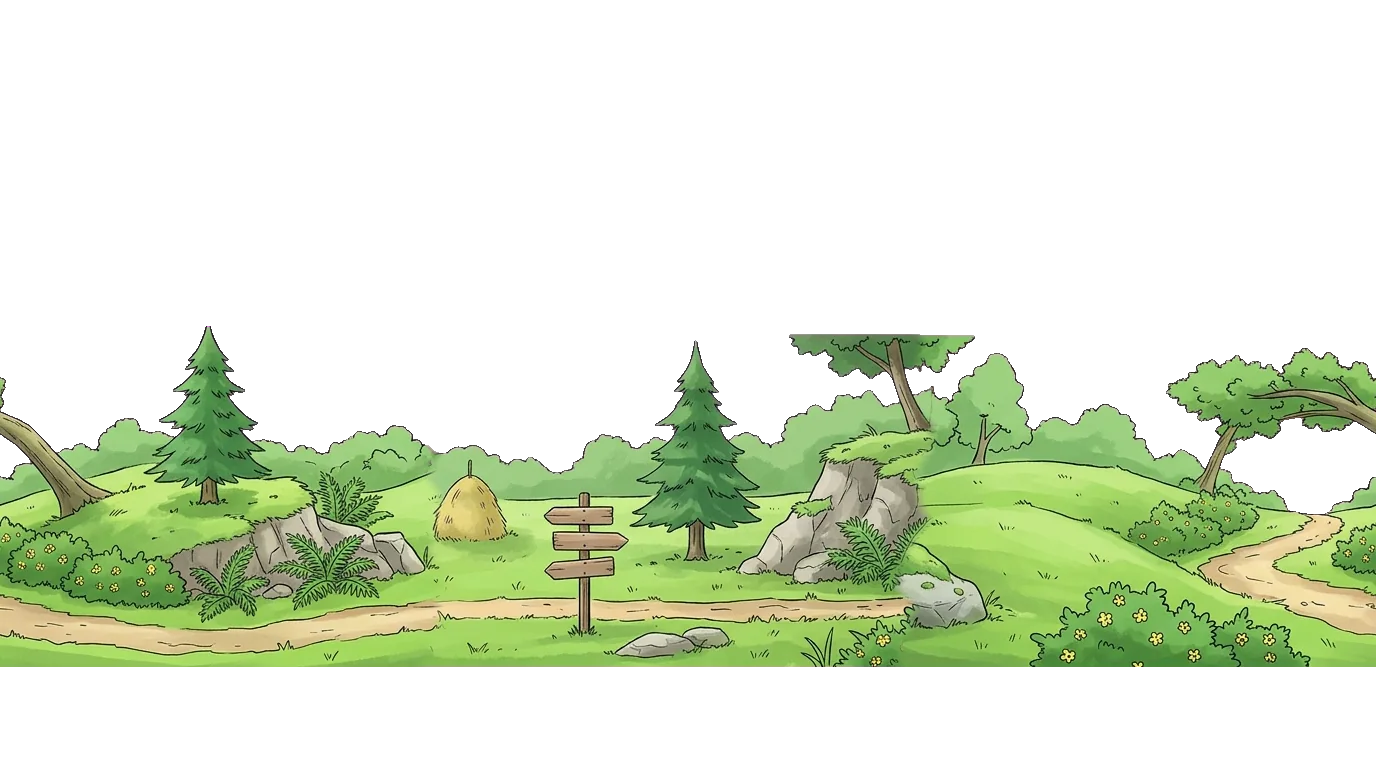
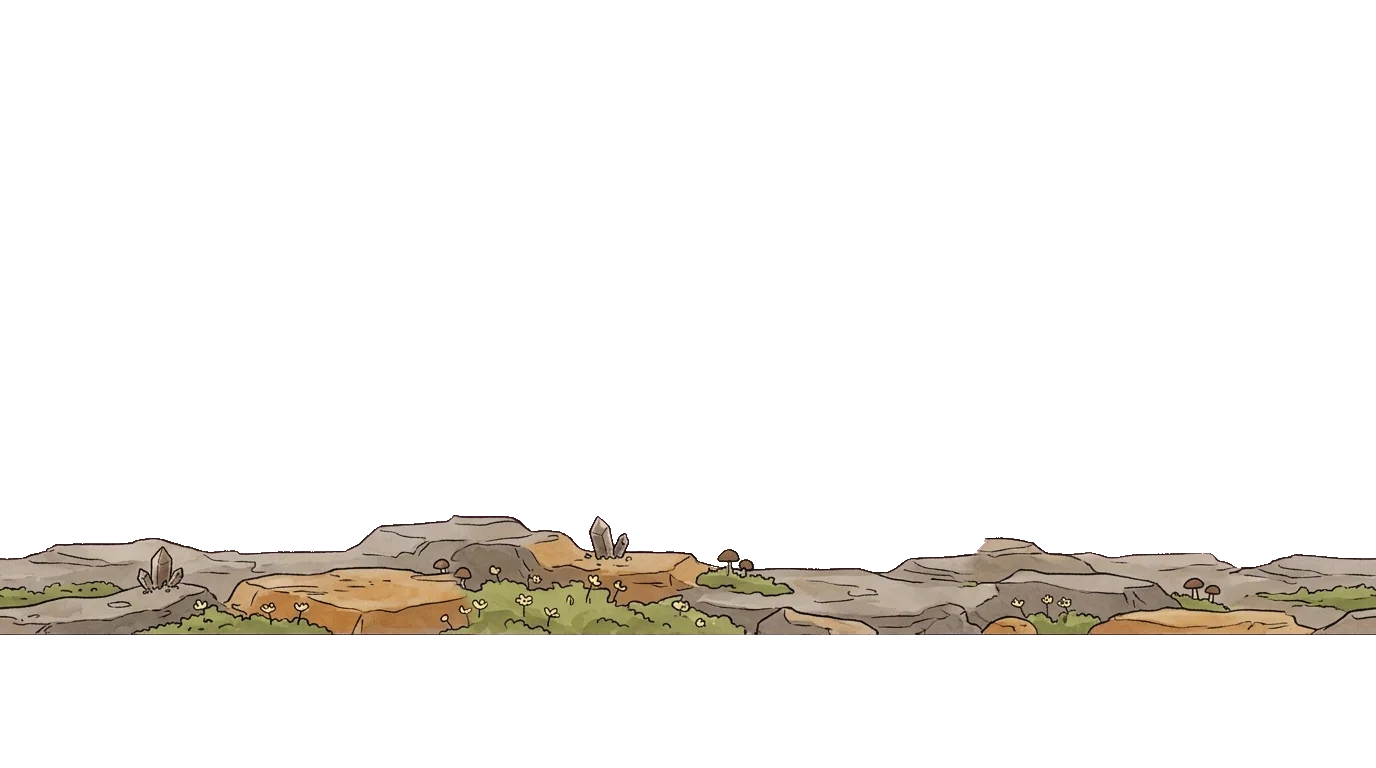
feat(egg): mountain pictures, a clearer gust, a growing hearth; plan 87 done
Claude-Session: https://claude.ai/code/session_01MAZwqXwM85U4SqAxn25APB

diff --git a/src/game/modes/egg.ts b/src/game/modes/egg.ts
@@ -1,5 +1,6 @@
 import { pickLine } from '../../app/app';
 import { ease } from '../../engine/tween';
+import { sprite } from '../../gfx/assets';
 import { blob, drawSprite, type G } from '../../gfx/draw';
 import type { TapkoMotion } from '../../gfx/tapko';
 import { t } from '../../i18n/i18n';
@@ -99,7 +100,7 @@ abstract class SlopeStream extends ApproachMode {
 }
 
 /** A gust's swirl radius, how much a slip makes it grow and speeds it up, and the speed of its rush after a second slip. */
-const GUST_R = 62;
+const GUST_R = 70;
 const STRONG = 1.3;
 const STRONG_SPEED = 1.35;
 const RUSH_SPEED = 1500;
@@ -210,35 +211,38 @@ export class WindMode extends SlopeStream {
     tg.selectable = false;
   }
 
+  /** A swirl of air: soft blue-grey strokes under white ones, so it reads on a bright sky too. */
   drawMover(g: G, m: Mover): void {
-    const r = GUST_R * m.grow, spin = m.age * (m.strong ? 5 : 3.5) + m.phase;
-    g.save();
-    g.lineCap = 'round';
-    g.strokeStyle = '#ffffff';
+    const r = GUST_R * m.grow, spin = m.age * (m.strong ? 5 : 3.5) + m.phase, w = m.strong ? 1.6 : 1;
+    const strokes: ((g: G) => void)[] = [];
     for (let i = 0; i < 4; i++) {
       const rr = r * (0.35 + 0.2 * i), a = spin * (1 - i * 0.12) + i * 1.7;
-      g.lineWidth = (m.strong ? 6 : 3.5) - i * 0.5;
-      g.save();
-      g.globalAlpha = 0.85 - i * 0.12;
-      g.beginPath();
-      g.arc(m.x, m.y, rr, a, a + 1.3 + i * 0.25);
-      g.stroke();
-      g.restore();
+      strokes.push((gg) => gg.arc(m.x, m.y, rr, a, a + 1.5 + i * 0.25));
     }
     // Wisps trail behind it.
-    g.lineWidth = m.strong ? 4 : 2.5;
-    g.globalAlpha = 0.6;
     for (const dy of [-0.35, 0.1, 0.45]) {
       const y = m.y + dy * r, wave = Math.sin(m.age * 6 + dy * 5) * 6;
-      g.beginPath();
-      g.moveTo(m.x + r * 0.7, y);
-      g.quadraticCurveTo(m.x + r * 1.3, y + wave, m.x + r * (1.8 + (m.strong ? 0.4 : 0)), y);
-      g.stroke();
+      strokes.push((gg) => {
+        gg.moveTo(m.x + r * 0.7, y);
+        gg.quadraticCurveTo(m.x + r * 1.3, y + wave, m.x + r * (1.8 + (m.strong ? 0.4 : 0)), y);
+      });
+    }
+    g.save();
+    g.lineCap = 'round';
+    for (const [ink, width, alpha] of [['#5f7f9c', 8, 0.35], ['#ffffff', 4.5, 0.95]] as const) {
+      g.strokeStyle = ink;
+      g.lineWidth = width * w;
+      g.globalAlpha = alpha;
+      for (const s of strokes) {
+        g.beginPath();
+        s(g);
+        g.stroke();
+      }
     }
     g.restore();
     for (const lf of m.leaves as { pic: string; phase: number }[]) {
       const a = spin * 1.2 + lf.phase;
-      drawSprite(g, lf.pic, m.x + Math.cos(a) * r * 0.62, m.y + Math.sin(a) * r * 0.45, 30 * m.grow, { rot: a * 1.5 }, leafFallback);
+      drawSprite(g, lf.pic, m.x + Math.cos(a) * r * 0.62, m.y + Math.sin(a) * r * 0.45, 40 * m.grow, { rot: a * 1.5 }, leafFallback);
     }
   }
 
@@ -415,9 +419,10 @@ export class BouldersMode extends SlopeStream {
 /** The path's places right of him (shares of the stage), and the seconds a round's puddles and words grow. */
 const SLOTS = [0.42, 0.62, 0.82];
 const GROW = 0.35;
-/** The puddles: their pictures, size on the path and how many rounds after a mud step have one very hard word. */
+/** The puddles: their pictures, their width and most height on the path (flattened, they lie on it), and how many rounds after a mud step have one very hard word. */
 const MUDS = ['obj-mud-1', 'obj-mud-2'];
-const MUD_H = 46;
+const MUD_W = 170;
+const MUD_H = 50;
 export const HARD_ROUNDS = 3;
 /** A very hard word: the longest of a few drawn from the hardest keys the child knows. */
 const HARD_DRAWS = 4;
@@ -614,7 +619,8 @@ export class MudMode extends HeroMode {
 
   private drawPuddle(g: G, p: Place, grow: number): void {
     if (!p.mud) return;
-    drawSprite(g, p.mud, p.x - this.scroll, FEET + 4, MUD_H * grow, { flip: p.flip }, mudFallback);
+    const img = sprite(p.mud), h = MUD_W / (img ? img.naturalWidth / img.naturalHeight : MUD_W / MUD_H);
+    drawSprite(g, p.mud, p.x - this.scroll, FEET + 4, h * grow, { flip: p.flip, sy: Math.min(1, MUD_H / h) }, mudFallback);
   }
 
   render(g: G): void {

diff --git a/e2e/play.spec.ts b/e2e/play.spec.ts
@@ -165,10 +165,27 @@ test('a world not built yet plays the cyclic copy and its level is finished by c
   await page.goto('./');
   await page.locator('.start-screen').waitFor();
   await page.keyboard.type('supertapkotyper', { delay: 40 });
-  await page.locator('.island-egg .level-node.super').click();
+  await page.locator('.island-junkyard .level-node.super').click();
   await expect(page.locator('.posture-card')).toContainText('This level is still being made');
-  await expect(page.locator('.level-screen.world-egg')).toBeVisible();
+  await expect(page.locator('.level-screen.world-junkyard')).toBeVisible();
   expect(await playLevel(page)).toMatch(/%/);
+  expect(errors).toEqual([]);
+});
+
+test('the egg mountain: each of its five levels is played to its end', async ({ page }) => {
+  test.setTimeout(600_000);
+  const errors: string[] = [];
+  page.on('pageerror', (e) => errors.push(e.message));
+  await page.goto('./?minActive=8');
+  await page.locator('.start-screen').waitFor();
+  await page.keyboard.type('supertapkotyper', { delay: 40 });
+  for (let i = 0; i < 5; i++) {
+    await page.locator('.island-egg .level-row .level-node').nth(i).click();
+    await expect(page.locator('.level-screen.world-egg')).toBeVisible();
+    expect(await playLevel(page, i === 0)).toMatch(/%/);
+    await page.locator('.end-card .ec-bot .btn').last().click();
+    await page.locator('.map-screen').waitFor();
+  }
   expect(errors).toEqual([]);
 });
 

diff --git a/src/game/modes/egg-spell.ts b/src/game/modes/egg-spell.ts
@@ -253,7 +253,9 @@ export class SpellRibbonMode extends HeroMode {
       this.target();
     }
     this.warmth = Math.max(this.warmth, Math.min(1, L.share()));
+    // Weak low flames at first; they come one by one and grow with the spell.
     this.hearth.glow = GLOW_START + (1 - GLOW_START) * this.warmth;
+    this.hearth.growth = this.warmth;
     this.hearth.update(dt);
     this.wobble = Math.max(0, this.wobble - dt);
     if (this.ghost && (this.ghost.t += dt) >= ERASE_S) this.ghost = null;
@@ -302,7 +304,9 @@ export class SpellRibbonMode extends HeroMode {
   }
 
   render(g: G): void {
-    this.hearth.draw(g, (gg) => this.drawEgg(gg));
+    // The egg lies in the hearth in front of its flames, so they never hide it.
+    this.hearth.draw(g);
+    this.drawEgg(g);
     this.drawHero(g);
     if (this.lay >= 0 && this.lay < LAY_S) this.drawLaying(g);
     if (!this.spellOn) return;
@@ -507,7 +511,8 @@ export class SpellRibbonMode extends HeroMode {
     this.frameUp = this.L.reduceMotion ? aimUp : this.frameUp + (aimUp - this.frameUp) * 0.15;
     g.save();
     g.beginPath();
-    g.rect(b.x + 8, b.y + 8, b.w - 16, b.h - 16);
+    // Only whole lines show: the one scrolling away leaves at the top of the text.
+    g.rect(b.x + 8, b.y + FRAME_PAD - 4, b.w - 16, LINES * LINE_H + 8);
     g.clip();
     const fade = ghost ? 1 - ghost.t / ERASE_S : 0;
     let cursor: { x: number; y: number } | null = null;

diff --git a/src/gfx/draw.ts b/src/gfx/draw.ts
@@ -164,7 +164,7 @@ export const PALETTES: Record<string, Palette> = {
   space: { sky: ['#1d1b4b', '#3d2c6e'], hills: ['#2d3f7a', '#3b2f6b'], ground: '#251f4f', accent: '#ffe27a' },
   planet: { sky: ['#bdf0dc', '#eafbf3'], hills: ['#7fd1c7', '#b49be0'], ground: '#5eb59a', accent: '#f5a3d3' },
   dragons: { sky: ['#ffb48a', '#ffe0c2'], hills: ['#c79a7a', '#a8806a'], ground: '#8fb267', accent: '#ff8a65' },
-  egg: { sky: ['#9fd8f5', '#f2fbff'], hills: ['#a5d97f', '#86c465'], ground: '#76b457', accent: '#ffd25a' },
+  egg: { sky: ['#9fd8f5', '#f2fbff'], hills: ['#b8a58c', '#9c8f80'], ground: '#bdb3a5', accent: '#ffd25a' },
   junkyard: { sky: ['#a8d8f0', '#f4f1e6'], hills: ['#c2a882', '#9e8a6e'], ground: '#8a7a62', accent: '#ff8a65' },
   workshop: { sky: ['#e8c9a0', '#f7e8d2'], hills: ['#c49a6c', '#a87f56'], ground: '#8f6a48', accent: '#ffd84a' },
   raintown: { sky: ['#8fa6bf', '#d5e1ec'], hills: ['#9fb0c4', '#7f93a8'], ground: '#6f8296', accent: '#ffd84a' },

diff --git a/src/game/modes/kit/hero.ts b/src/game/modes/kit/hero.ts
@@ -81,7 +81,7 @@ export abstract class HeroMode extends Mode {
 
 /** On the planet's meadow he walks in the middle of the path, which the near band draws at this height. */
 export const PATH_FEET = VH * 0.89;
-/** Where Tapko stands in a world's side activity (the target range, the parrot, free typing): on the planet's path, else at `ground`. */
-export const sideFeet = (world: string, ground: number): number => (world === 'planet' ? PATH_FEET : ground);
+/** Where Tapko stands in a world's side activity (the target range, the parrot, free typing): on the planet's and the mountain's path, else at `ground`. */
+export const sideFeet = (world: string, ground: number): number => (world === 'planet' || world === 'egg' ? PATH_FEET : ground);
 /** The word to type is above his head. */
 export const wordAbove = (feet: number): number => feet - TAPKO_H * 0.8 - 100;

diff --git a/assets-src/PROMPTS.md b/assets-src/PROMPTS.md
@@ -182,6 +182,17 @@ Notes from real Gemini runs; add new ones here.
   arms run plain to the image edges, and a "sheet of three border bands" cut by both side
   edges). All five such prompts came out clean and symmetrical on the first try; the page joins
   the parts with CSS border-image (bands repeat, cut between two motifs).
+- Mountain layers (2026-10-31): a sheet of two strips came on a dull pink key (196,82,154), not magenta,
+  so `strips` found nothing; turning the pixels near that tone to #FF00FF locally first fixed it. The mid
+  strips came 130 px tall although 330 was asked. Quilting a mid strip from itself repeated a slab and
+  a mushroom pair side by side; the other strip of the sheet as donor did not. Gemini's seam repaint gave
+  the middle sky a greyer tone than the sides (a visible rectangle): a per-row offset on the sky-like
+  pixels inside the gap fixed it. The near sheet's path came 18 px too high: `lift <img> -14` put its
+  middle at 89 % of the stage.
+- A follow-up that asks for a different aspect ("four times wider than tall", "ten times taller than
+  wide") changed almost nothing: the mud puddles stay 2.3 and 2.7 times wider than tall, the poles 1.7,
+  3.3 and 3.9 times taller (the planet's posts are 3.1, 5.8 and 6.1). An object of a square picture keeps
+  about its shape; plan for the game to scale it or accept the shape.
 
 ---
 
@@ -475,9 +486,9 @@ flat storybook style and no longer apply.
 | `bg-dragons-far.jpg` | a peaceful dragon valley at sunset, warm orange and pink colours in the sky, the sun hidden behind the mountains, soft rounded mountains and a waterfall | full | done 2026-10-23 |
 | `bg-dragons-mid.jpg` | (the owner's picture on a cyan key, 2026-10-29) wooded hills, a big fly agaric, a mossy cave with a glowing crystal, a tree with red and yellow blossoms, then a wide calm meadow | full | done 2026-10-29 (seam by Gemini, moved down 8 px: its skyline at 62 % from the bottom) |
 | `bg-dragons-near.jpg` | (the owner's picture on a cyan key, 2026-10-29) a low grassy edge with a red crystal, a stump, fly agarics, pebbles, blue flowers, then wide calm grass | full | done 2026-10-29 (seam by Gemini, moved down 284 px: its skyline at 22 % from the bottom) |
-| `bg-egg-far.jpg` | a bright morning valley with a long gentle grassy slope going down from left to right, a few trees and a blue river far away | full | done 2026-10-23 |
-| `bg-egg-mid.jpg` | a bush with yellow flowers, a leaning tree, a mossy boulder, a haystack, a pine, a bush with pink flowers, a signpost with empty boards and a rocky outcrop with ferns | 50 % | done 2026-10-23 |
-| `bg-egg-near.jpg` | only plants and small things: grass, yellow flowers, a pink wild rose, foxtail, a fern, a broken spotted eggshell, daisies, a mushroom and a thistle; no big rocks | 20 % | done 2026-10-23 |
+| `bg-egg-far.jpg` | (redone 2026-10-31, the Mountain of Awakening; attach `bg-planet-far.png` as a style guide and say the landscape must be different) rocky hills and peaks in grey-brown and warm ochre with moss patches, many big groups of pale crystals (amber, rose quartz, aquamarine) in the slopes, no mushroom trees, a light blue sky with small jagged sawtooth clouds tinted soft orange, peaks of similar size across the width | full | done 2026-10-31 (seam by Gemini; the grey tone it gave the middle sky was corrected locally) |
+| `bg-egg-mid.jpg` | (redone 2026-10-31) flat rocky terrain far back: low rocks and slabs, some under moss with low stemless flowers, a few small mushrooms and crystals growing out of the rock; calm, nothing tall | low band | done 2026-10-31 (sheet of two strips on a dull pink key turned to pure magenta locally; strips came 130 px tall, not 330; quilted from the other strip, lifted 133 px) |
+| `bg-egg-near.jpg` | (redone 2026-10-31) a path of pale grey-tan stone on rocky ground: small crystals, a few mushrooms and one low bush along its upper edge, the lower half of the path calm rock with no detail | full | done 2026-10-31 (sheet of three strips, quilted, moved down 14 px: the path runs y 623 to 745, its middle at 89 % of the stage like `bg-planet-near`) |
 
 ## 4. Game objects (sprites)
 
@@ -549,6 +560,11 @@ BG is `magenta color (#FF00FF)` unless the table says `green`, then use `green c
 | `obj-bush-1.jpg` | (the valley's overgrown path, done 2026-10-29) a low, wide, round, thick bush of small dark-green leaves (#4F8A4A, lighter #6FA85F highlights) with a few tangled brown twigs (#7A5434) sticking out of it, about one and a half times wider than tall, its bottom edge cut straight as if it stands on a path; NO face, no eyes, no flowers, no berries, no ground, no grass, no stones | magenta |
 | `obj-bush-3.jpg` | (done 2026-10-29) **attach `obj-bush-1.jpg`**: "Draw a new bush in exactly the same drawing style, outline, shading and leaf pattern as the attached bush ..., but a different bush: a bit smaller and narrower, slightly taller than wide, an upright oval shape, the greens a little lighter and more yellow-green (#6B9A4A with #8DB860 highlights)"; NO face, no flowers, no ground | magenta |
 | `obj-bush-2.jpg` | (done 2026-10-29; the branch tangle that was bush 2 is dropped) **attach `obj-bush-1.jpg`**: as bush 3, "smaller and thinner than the attached one, a little taller than wide, slightly bluish green leaves (#4F8A5E with #74AE7E highlights), and ONE single small pale pink flower with five round petals sitting near its top" | magenta |
+| **World 5, the mountain** | | |
+| `obj-mud-1.jpg`, `-2` | (2026-10-31) a flat glossy sticky dark brown mud puddle (#5A3A24, highlights #7A5236) on a path, a little from above, with a few bubbles, very wide and flat (four times wider than tall); two outlines (a blob, two lobes joined by a neck); NO face, nothing else | magenta |
+| `obj-boulder-1.jpg` to `-3` | (2026-10-31) a big round rolling boulder, roughly a ball so it can spin: grey-brown stone with cracks (1), warm grey with moss patches (2), ochre-brown with one pale aquamarine crystal speck (3); NO face, no ground | magenta |
+| `obj-signpost-stone-1.jpg` to `-3` | (2026-10-31, mountain crossroads, no board: the game draws the arrow boards) a weathered wooden pole set in a small cairn of mossy stones, no fire, no lantern; about three, seven and twelve times taller than wide (tall narrow portrait for 2 and 3) | magenta |
+| `obj-hearth.jpg` | (2026-10-31, the dragons' hearth on the summit; attach `obj-firepit.jpg`) a big ring of old carved stones seen a little from above, runes carved softly in them (not an altar), the inside empty bare ash-grey ground: the game draws flames and an egg into it; about 1.5 times wider than tall | magenta |
 | **Egg journey** | | |
 | `obj-egg.jpg` | a big oval dragon egg, cream with turquoise spots, front view | magenta |
 | `obj-egg-cracking.jpg` | the same dragon egg with a zigzag crack and a tiny light glowing from inside | magenta |

diff --git a/.todo/.done/87-egg-mountain.md b/.todo/.done/87-egg-mountain.md
@@ -231,7 +231,7 @@ Made with the section 3 prompts of `assets-src/PROMPTS.md` (skill `gemini-images
       lines, translator notes.
 - [x] Egg on the back: `carry: 'egg'` in `drawTapko`, the silhouette cache, peeking; unit test of
       the visible share with the widest back accessories and with fallback drawings.
-- [ ] Backgrounds: prompts, Gemini generation (`gemini-images`), seam procedure, `npm run
+- [x] Backgrounds: prompts, Gemini generation (`gemini-images`), seam procedure, `npm run
       assets bg-egg`, preview; the path's middle at `PATH_FEET`. If Gemini is unavailable, keep
       the old layers and add a backlog line.
 - [x] Level 1 wind (gust strengthening, reset on a slip, second slip push with +2 words /
@@ -241,12 +241,12 @@ Made with the section 3 prompts of `assets-src/PROMPTS.md` (skill `gemini-images
 - [x] Level 4 boulders (pairs, jump over, stumble with +7 % capped at +70 %).
 - [x] Level 5 spell ribbon (band, frame, two-word erase with the rewind anchor, hearth stages,
       hatching end).
-- [ ] Object pictures via `gemini-images` (mud, boulders, stone posts, hearth) and the assets run.
-- [ ] Tests: `levels.test.ts` (kinds, minimums, activities of world 5), unit tests for the wind's
+- [x] Object pictures via `gemini-images` (mud, boulders, stone posts, hearth) and the assets run.
+- [x] Tests: `levels.test.ts` (kinds, minimums, activities of world 5), unit tests for the wind's
       growth cap, the boulders' +7 % cap, the ribbon's erase/anchor rule, the countdown (only the best path, at least three signs, its fair time, a half-typed sign vanishing without a mistake); `idle.test.ts` (each
       new mode keeps giving targets and ends at both paces; pairs of boulders and the mud's hard
       rounds appear for the slow child); e2e: world 5 levels reach their end with `?minActive=`.
-- [ ] `npm run build`, `npx vitest run`, affected e2e; Playwright MCP play-through of all five
+- [x] `npm run build`, `npx vitest run`, affected e2e; Playwright MCP play-through of all five
       levels (tester profile, `?fast`, `tapkoType`), screenshots: the egg peeking with dragon
       wings and with a jetpack, a strengthened gust, a mud round, the stone posts, a boulder
       pair, the ribbon after a rewind, the hatching.
@@ -278,3 +278,27 @@ Decisions taken while implementing (2026-10-31):
   "Ďakujem, že ma tvoje kúzlo zohrialo!" and "Uf, už sa to nelepí!".
 - Runtime: `extendMin(seconds)` (the wind's and the boulders' longer way) and `letterTime` (the
   child's seconds per letter, for the countdown).
+- Pictures (a Sonnet agent through the gemini bridge): all twelve made. The mud puddles came out
+  about 2.3-2.7 times wider than tall (asked 4): the game draws them 170 px wide and flattens them
+  to at most 50 px high, so they lie on the path. The stone posts are stockier than asked (1.7,
+  3.3, 3.9 times taller than wide); they look right at the planet's post heights, kept as they are.
+  The filtered `npm run assets <name>` keeps the manifest, so the new pictures' sizes were added
+  to `public/assets/manifest.json` from the files themselves.
+- With the new near band (its path's middle at `PATH_FEET`), side activities in the egg world
+  (range, parrot, free typing) stand on the path too (`sideFeet`).
+- Spell: the hearth's fire grows with the spell (`Firepit.growth`, the valley's growing fire), and
+  the egg is drawn in front of the flames so they never hide it.
+
+## Done - 2026-10-31
+Shipped: world 5 plays the mountain: wind (gusts, strengthening, rush with +2 words / +15 s up to
++10 / +75 s), sticky puddles (2-3 places, three very hard rounds after a mud step), the mountain
+crossroads (world from the level, stone posts, five mountain paths, the best path's countdown),
+boulders (pairs from a third, hop over, stumble with +7 % up to +70 %) and the spell of awakening
+(the first ribbon: band, stone frame, two-word erase with the rewind anchor, hearth stages,
+hatching). The egg rides on Tapko's back in levels 1-4, placed from his outfit's silhouette, and
+peeks; level 5 lays it into the hearth. New backgrounds and object pictures, texts in sk/en with
+translator notes, specs, unit tests, an e2e test of all five levels, a Playwright MCP play-through
+of all five levels with screenshots (gust, mud round and hard round, stone posts with the
+countdown, boulders, the ribbon after a rewind, the hatching, the egg with dragon wings and with
+a jetpack and a wizard hat).
+Left out: the far band's light sky streaks (BACKLOG, P3).

diff --git a/.todo/BACKLOG.md b/.todo/BACKLOG.md
@@ -5,3 +5,4 @@ Everything found outside the current task, one line each, most important first:
 Search before adding; an entry is worked only when it is named.
 - [P3] Check .tapko sharing and opening on real devices - src/screens/teacher.ts sendDialog uses Web Share with files (Android, iPhone) and main.ts launchQueue opens a double-clicked .tapko in installed Chrome/Edge (plan 59); neither is testable here
 - [P3] Calm background bands may show their inner joins - layers quilted with a sibling strip (scripts/bg-seam.mjs quilt) can leave steps in calm bands, as the planet path did; re-quilt them with the same strip as donor (assets-src/PROMPTS.md section 3) when one shows
+- [P3] Egg mountain far band shows light streaks in its sky - public/assets/bg-egg-far.webp has pale vertical bands in the sky (about x 250 and x 1100 of 1376) left by Gemini's seam repaint and the local tone fix; repaint the sky or regenerate the far layer (assets-src/PROMPTS.md section 3)

diff --git a/.todo/QUEUE.md b/.todo/QUEUE.md
@@ -6,7 +6,6 @@ each in its own clean session. One line per plan in `.todo/`:
 listed here is never run. Lines whose plan has moved to `.todo/.done/` are
 skipped, and the session that finishes a plan removes its line.
 
-- [P2] 87-egg-mountain.md - world 5 of the dragon story; independent of 86, before 88
 - [P2] 88-dragon-heros-journey.md - needs 86 (journey machinery) and 87 (world 5 modes)
 - [P3] 90-upkeep-loading-drawing-runtime.md - backlog upkeep; after 89 (both touch runtime.ts timekeeping)
 - [P3] 91-audible-dictation-words.md - backlog fix for own-practice dictation; independent

diff --git a/.todo/88-dragon-heros-journey.md b/.todo/88-dragon-heros-journey.md
@@ -1,7 +1,7 @@
 # 88 - The dragon story's own hero's journey: down the mountain back to the rocket
 
 Needs `.todo/.done/86-heros-journey.md` (the journey's machinery, node after the crown, harder play,
-stricter stars, star totals) and `.todo/87-egg-mountain.md` (world 5's modes, bands and the
+stricter stars, star totals) and `.todo/.done/87-egg-mountain.md` (world 5's modes, bands and the
 hatched baby dragon).
 
 ## Why
